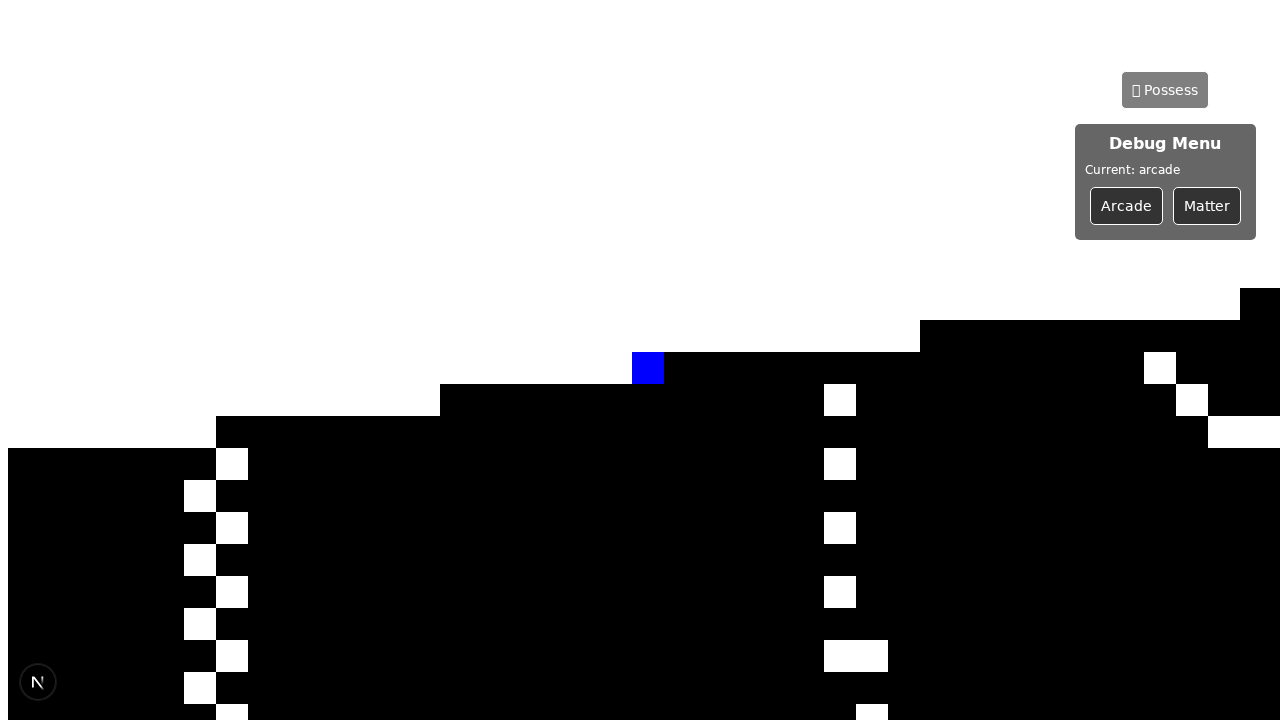
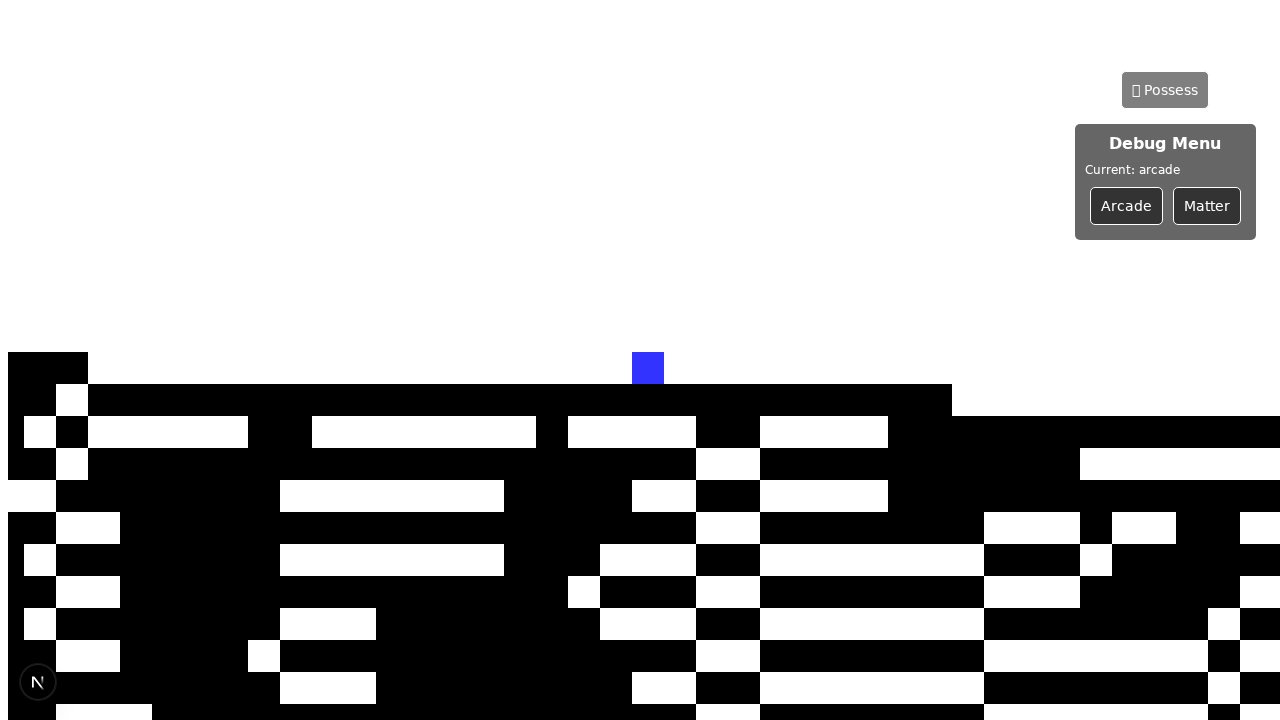
feat(generation): Fix cave generation and reduce frequency
This commit resolves two issues with the cave generation in Arcade mode:
1.  A visual checkerboard artifact was appearing in caves. This was caused by using a `tileSprite` for solid ground, which created tiling artifacts. This has been fixed by replacing the `tileSprite` with a simple `Rectangle` object.
2.  Caves were too frequent. This has been addressed by adjusting the `fillProbability` of the Cellular Automata algorithm to make caves sparser.

Additionally, this commit includes:
- A new `CaveGenerator` class that implements the Cellular Automata algorithm.
- A `clone()` method added to the `Grid` class to support the new generator.
- Updates to the `LevelGenerator_Arcade.test.js` mock to include the `rectangle` method.

Changed region(s): [[0.0, 0.3972, 1.0, 1.0], [0.0312, 0.9778, 0.125, 1.0], [0.9688, 0.7028, 1.0, 0.7639]]

diff --git a/simulation/src/game/LevelGenerator_Arcade.js b/simulation/src/game/LevelGenerator_Arcade.js
@@ -49,7 +49,8 @@ export default class LevelGenerator {
     // --- Cellular Automata for Cave Generation ---
     const caveGrid = new Grid(chunkSize, chunkSize);
     const caveGenerator = new CaveGenerator(caveGrid);
-    const processedCaveGrid = caveGenerator.generate(5, 0.45); // iterations, fill probability
+    // B45678/S345678 rule to prevent checkerboards, with a lower fill probability for sparser caves.
+    const processedCaveGrid = caveGenerator.generate(5, 0.35, 3, 3);
 
     // Carve the generated caves out of the main chunk grid
     for (let x = 0; x < chunkSize; x++) {
@@ -145,24 +146,25 @@ export default class LevelGenerator {
       const tileWorldY = (chunkY * chunkSize) + mesh.y;
       const platformX = tileWorldX * tileSize;
       const platformY = tileWorldY * tileSize;
-
-      let texture = 'platform_solid';
-      if (mesh.tile === 2) {
-        texture = 'platform_one_way';
-      } else if (mesh.tile === 3) {
-        texture = 'platform_prefab';
-      }
-
-      const newPlatform = this.scene.add.tileSprite(platformX, platformY, mesh.width * tileSize, mesh.height * tileSize, texture);
-      newPlatform.setOrigin(0,0);
+      const platformWidth = mesh.width * tileSize;
+      const platformHeight = mesh.height * tileSize;
 
       if (mesh.tile === 2) { // One-way platform
+        const newPlatform = this.scene.add.tileSprite(platformX, platformY, platformWidth, platformHeight, 'platform_one_way');
+        newPlatform.setOrigin(0,0);
         this.scene.physics.add.existing(newPlatform, true);
         oneWayPlatforms.add(newPlatform);
         newPlatform.body.checkCollision.down = false;
         newPlatform.body.checkCollision.left = false;
         newPlatform.body.checkCollision.right = false;
-      } else { // Solid or Prefab platform
+      } else if (mesh.tile === 3) { // Prefab platform
+        const newPlatform = this.scene.add.tileSprite(platformX, platformY, platformWidth, platformHeight, 'platform_prefab');
+        newPlatform.setOrigin(0,0);
+        this.scene.physics.add.existing(newPlatform, true);
+        newPlatforms.add(newPlatform);
+      } else { // Solid platform
+        const newPlatform = this.scene.add.rectangle(platformX, platformY, platformWidth, platformHeight, 0x000000);
+        newPlatform.setOrigin(0,0);
         this.scene.physics.add.existing(newPlatform, true);
         newPlatforms.add(newPlatform);
       }
@@ -203,7 +205,8 @@ export default class LevelGenerator {
     // --- Cellular Automata for Cave Generation ---
     const caveGrid = new Grid(chunkSize, chunkSize);
     const caveGenerator = new CaveGenerator(caveGrid);
-    const processedCaveGrid = caveGenerator.generate(5, 0.45); // iterations, fill probability
+    // B45678/S345678 rule to prevent checkerboards, with a lower fill probability for sparser caves.
+    const processedCaveGrid = caveGenerator.generate(5, 0.35, 3, 3);
 
     // Carve the generated caves out of the main chunk grid
     for (let x = 0; x < chunkSize; x++) {
@@ -284,24 +287,25 @@ export default class LevelGenerator {
       const tileWorldY = (chunkY * chunkSize) + mesh.y;
       const platformX = tileWorldX * tileSize;
       const platformY = tileWorldY * tileSize;
-
-      let texture = 'platform_solid';
-      if (mesh.tile === 2) {
-        texture = 'platform_one_way';
-      } else if (mesh.tile === 3) {
-        texture = 'platform_prefab';
-      }
-
-      const newPlatform = this.scene.add.tileSprite(platformX, platformY, mesh.width * tileSize, mesh.height * tileSize, texture);
-      newPlatform.setOrigin(0,0);
+      const platformWidth = mesh.width * tileSize;
+      const platformHeight = mesh.height * tileSize;
 
       if (mesh.tile === 2) { // One-way platform
+        const newPlatform = this.scene.add.tileSprite(platformX, platformY, platformWidth, platformHeight, 'platform_one_way');
+        newPlatform.setOrigin(0,0);
         this.scene.physics.add.existing(newPlatform, true);
         oneWayPlatforms.add(newPlatform);
         newPlatform.body.checkCollision.down = false;
         newPlatform.body.checkCollision.left = false;
         newPlatform.body.checkCollision.right = false;
-      } else { // Solid or Prefab platform
+      } else if (mesh.tile === 3) { // Prefab platform
+        const newPlatform = this.scene.add.tileSprite(platformX, platformY, platformWidth, platformHeight, 'platform_prefab');
+        newPlatform.setOrigin(0,0);
+        this.scene.physics.add.existing(newPlatform, true);
+        newPlatforms.add(newPlatform);
+      } else { // Solid platform
+        const newPlatform = this.scene.add.rectangle(platformX, platformY, platformWidth, platformHeight, 0x000000);
+        newPlatform.setOrigin(0,0);
         this.scene.physics.add.existing(newPlatform, true);
         newPlatforms.add(newPlatform);
       }

diff --git a/simulation/src/game/GameScene_Arcade.js b/simulation/src/game/GameScene_Arcade.js
@@ -56,10 +56,6 @@ export default class GameScene extends Phaser.Scene {
     // --- Initial World Generation and Player Setup ---
     // Create textures for different platform types
     const graphics = this.add.graphics();
-    // Default ground (black)
-    graphics.fillStyle(0x000000, 1);
-    graphics.fillRect(0, 0, this.TILE_SIZE, this.TILE_SIZE);
-    graphics.generateTexture('platform_solid', this.TILE_SIZE, this.TILE_SIZE);
     // One-way platforms (green)
     graphics.fillStyle(0x00ff00, 1);
     graphics.fillRect(0, 0, this.TILE_SIZE, this.TILE_SIZE);

diff --git a/simulation/__tests__/LevelGenerator_Arcade.test.js b/simulation/__tests__/LevelGenerator_Arcade.test.js
@@ -46,6 +46,9 @@ describe('LevelGenerator', () => {
         },
       },
       add: {
+        rectangle: jest.fn().mockReturnValue({
+          setOrigin: jest.fn(),
+        }),
         tileSprite: jest.fn().mockReturnValue({
           setOrigin: jest.fn(),
         }),
